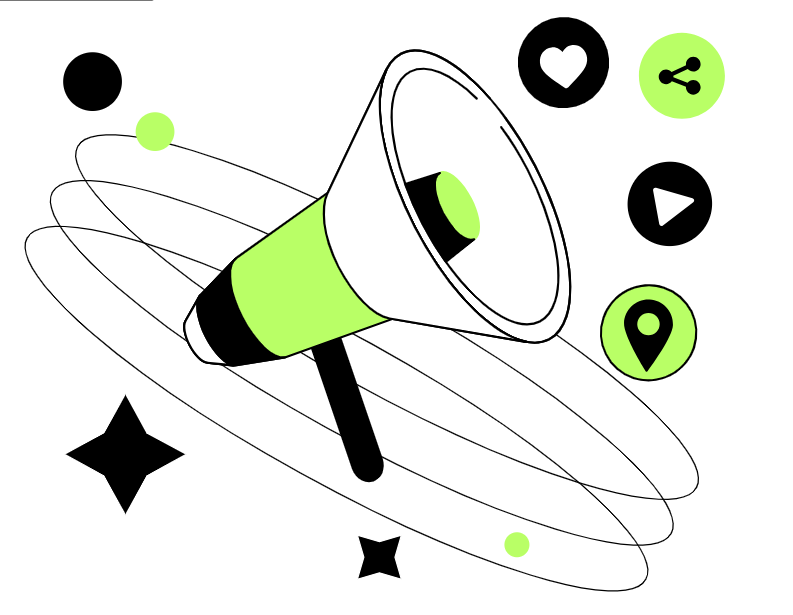
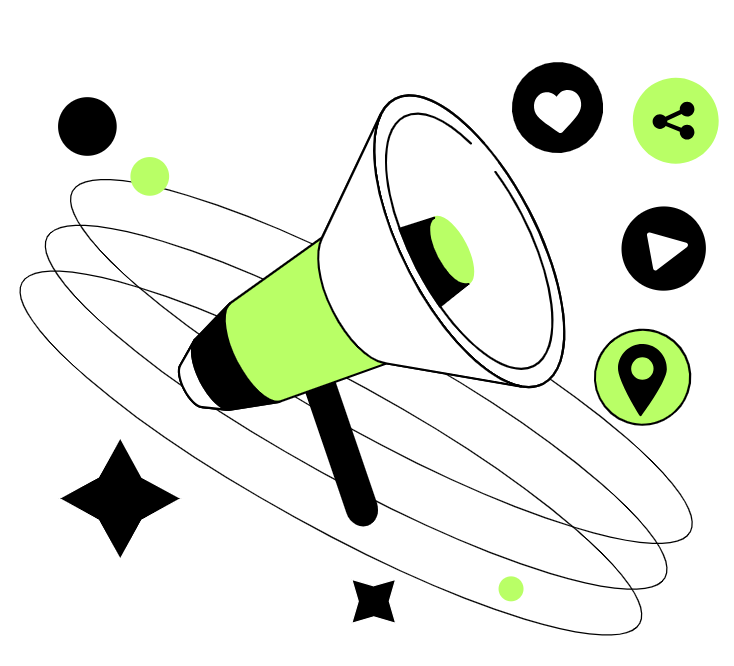
nk

diff --git a/Index.html b/Index.html
@@ -29,77 +29,73 @@
     </header>
     <main>
         <section id="top">
-            <div>
-                <h1>Navigating the digital landscape for success</h1>
-                <p>Our digital marketing agency helps businesses grow and succeed online through a range of services
-                    including SEO, PPC, social media marketing, and content creation.
-                </p>
-            </div>
-            <div class="Booking-Button">
-                <button>Book a Consultany</button>
-            </div>
-            <div class="top-img">
-                <img src="/resources/1.PNG" alt="">
+            <div class="topsection">
+                <div class="top-1">
+                    <h1>Navigating the digital landscape for success</h1>
+                    <p>Our digital marketing agency helps businesses grow and succeed online through a range of services
+                        including SEO, PPC, social media marketing, and content creation.
+                    </p>
+                    <button class="booking-btn">Book a Consultation</button>
+                </div>
+
+                <div class="top-img">
+                    <img src="/resources/1.PNG" alt="">
+                </div>
             </div>
             <div class="Site-Logos">
-                <span><img src="/resources/amazon.PNG" alt="amazon"></span>
-                <span><img src="/resources/dribbble.PNG" alt="Dribbble"></span>
-                <span><img src="/resources/hubspot.PNG" alt="Hubspot"></span>
-                <span><img src="/resources/notion.PNG" alt="Notion"></span>
-                <span><img src="/resources/netflix.PNG" alt="Netflix"></span>
-                <span><img src="/resources/zoom.PNG" alt="Zoom"></span>
+                <span class="img-1"><img src="/resources/amazon.PNG" alt="amazon"></span>
+                <span class="img-2"><img src="/resources/dribbble.PNG" alt="Dribbble"></span>
+                <span class="img-3"><img src="/resources/hubspot.PNG" alt="Hubspot"></span>
+                <span class="img-4"><img src="/resources/notion.PNG" alt="Notion"></span>
+                <span class="img-5"><img src="/resources/netflix.PNG" alt="Netflix"></span>
+                <span class="img-6"><img src="/resources/zoom.PNG" alt="Zoom"></span>
             </div>
         </section>
         <section id="Services">
             <div class="services-tag">
-                <h2>Services</h2>
-                <p>At our digital marketing agency, we offer a range of services to help businesses grow and succeed
-                    online.
-                    These services include:</p>
-                <h3>Secrch Engine Optimization</h3>
+                <div class="servies-top">
+                    <h2>Services</h2>
+                    <p>At our digital marketing agency, we offer a range of services to help businesses grow and succeed
+                        online These services include :</p>
+                </div>
             </div>
-            <div>
-                <img src="/resources/arrow bg.png" alt="">
+            <div class="services-container">
+                <div class="firstrow">
+                    <div class="Seo-container">
+                        <div>
+                            <div class="seocontainertop">
+                                <h2>Search Engine Optimization</h2>
+                            </div>
+                            <div class="seocontainerbottom">
+                                <div><img src="resources/arrow bg.png" alt=""></div>
+                                <div>
+                                    <p>Learn More</p>
+                                </div>
+                            </div>
+                        </div>
+                        <div class="Seo-img"><img src="resources/2.PNG" alt=""></div>
+                    </div>
+                    <div class="ppc-container">
+                        <div>
+                            <div class="ppccontainertop">
+                                <h2>Pay-Per-Click Advertising</h2>
+                            </div>
+                            <div class="ppccontainerbottom">
+                                <div><img src="resources/arrow bg.png" alt=""></div>
+                                <div>
+                                    <p>Learn More</p>
+                                </div>
+                            </div>
+                        </div>
+                        <div class="ppc-img"><img src="resources/3.PNG" alt=""></div>
+                    </div>
+                    <div class="socialmarketing"></div>
+                    <div class="contentservices"></div>
+                    <div class="emarketing"></div>
+                    <div class="webdesigndev"></div>
+                </div>
             </div>
-            <p>Learn More</p>
-            <div class="sec-pic1">
-                <img src="resources/2.PNG" alt="">
-            </div>
-            <div>
-                <img src="/resources/arrow bg.png" alt="">
-            </div>
-            <p>Learn More</p>
-            <div class="sec-pic1">
-                <img src="resources/3.PNG" alt="">
-            </div>
-            <div>
-                <img src="/resources/arrow bg.png" alt="">
-            </div>
-            <p>Learn More</p>
-            <div class="sec-pic1">
-                <img src="resources/4.PNG" alt="">
-            </div>
-            <div>
-                <img src="/resources/arrow bg.png" alt="">
-            </div>
-            <p>Learn More</p>
-            <div class="sec-pic1">
-                <img src="resources/5.PNG" alt="">
-            </div>
-            <div>
-                <img src="/resources/arrow bg.png" alt="">
-            </div>
-            <p>Learn More</p>
-            <div class="sec-pic1">
-                <img src="resources/6.PNG" alt="">
-            </div>
-            <div>
-                <img src="/resources/arrow bg.png" alt="">
-            </div>
-            <p>Learn More</p>
-            <div class="sec-pic1">
-                <img src="resources/7.PNG" alt="">
-            </div>
+
         </section>
         <section id="booking">
             <div>

diff --git a/style.css b/style.css
@@ -25,7 +25,7 @@ header{
 }
 
 .nav li a:hover{
-    color: lawngreen;
+    color: #B9FF66;
 }
 
 .quote{
@@ -36,8 +36,111 @@ header{
     margin-left: 40px;
 }
 .quote:hover{
-    background-color: lawngreen;}
+    background-color: #B9FF66;}
 
 .quote:hover a{
     color: black !important;
+}
+
+.topsection{
+    padding: 40px 60px;
+    display: flex;
+    justify-content: space-between;
+   
+}
+.topsection h1{
+    width: 534px;
+    height: 270px;
+    font-size: 60px;
+    line-height: 90px;
+    font-weight: 700;
+}
+.topsection p{
+    width: 534px;
+    height: 81px;;
+}
+.booking-btn{
+    width: 180px;
+    height: 70px;
+    border: none;
+    border-radius: 15px;
+    background-color: black;
+    color: white;
+    transition: background-color .2s;
+}
+.booking-btn:hover{
+    background-color: #B9FF66;
+    color: black;
+}
+.top-img img{
+    width: 550px;
+    margin-right: 100px;
+}
+
+.Site-Logos{
+    display: flex;
+    flex-direction: row;
+    justify-content: space-evenly;
+    gap: 90px;
+}
+.Site-Logos span img{
+    width: auto;
+    max-height: 50px;
+    object-fit: contain;
+}
+.services-tag{
+    padding: 40px 60px;
+}
+.servies-top h2{
+    font-size: 40px;
+    background-color: #B9FF66;
+    display: inline-block;
+    padding: 10px;
+    border-radius: 5px;
+}
+.servies-top p{
+    display: inline-block;
+    margin-left: 30px;
+    max-width: 550px;
+    font-size: 18px;
+    font-weight: 400;
+    line-height: 27px;
+}
+.services-container{
+    padding: 40px 60px;
+}
+.Seo-container, .ppc-container{
+    background-color: #F3F3F3;
+    display: flex;
+    width: 45%;
+    border-radius: 19px;
+    border: black 1px solid;
+    padding: 15px;
+    box-shadow: 10px;
+}
+.seocontainertop h2{
+    line-height: 40px;
+    font-size: 25px;
+    font-weight: 700px;
+}
+.seocontainerbottom{
+    display: flex;
+    align-items:center ;
+    padding-top: 100px;
+}
+.seocontainerbottom p, .ppscontainerbottom p{
+    padding-left: 10px;
+    
+}
+.seocontainerbottom p:hover{
+    background-color: #B9FF66;
+    padding: 2px;
+    cursor: pointer;
+}
+.ppc-container{
+    background-color: #B9FF66;
+}
+.firstrow{
+    display: flex;
+    gap: 25px;
 }